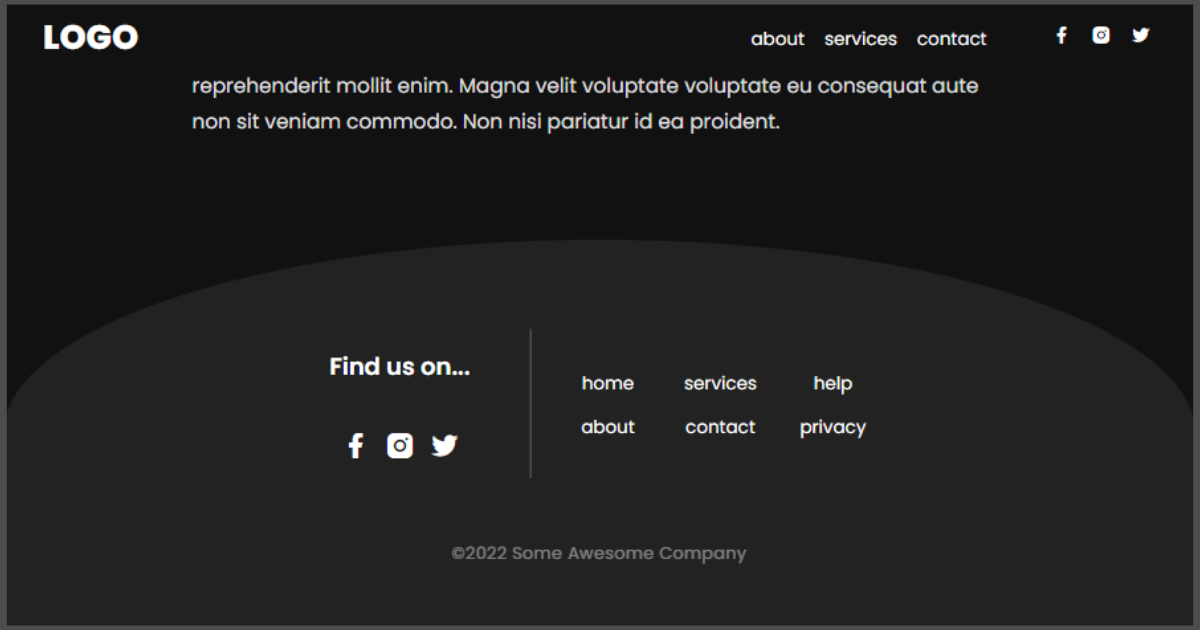
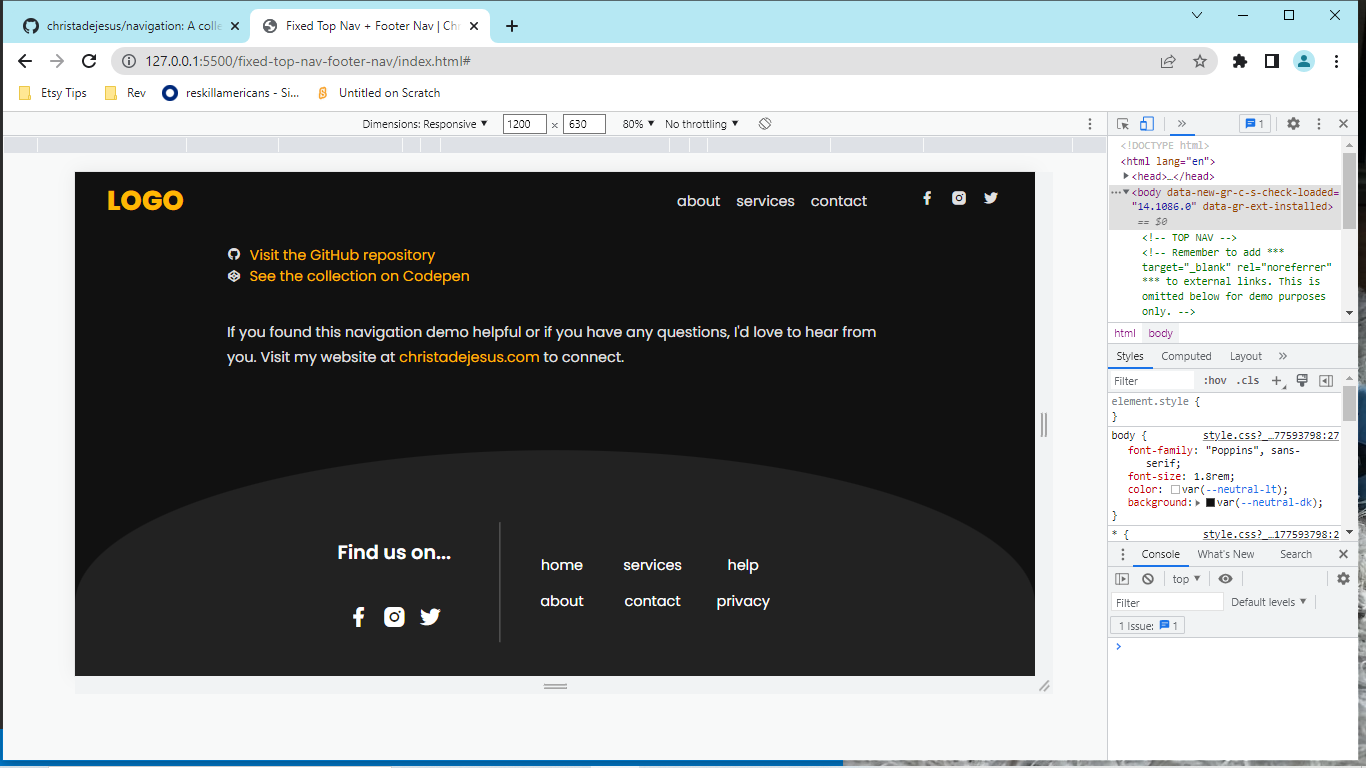
Update main content and social image

diff --git a/fixed-top-nav-footer-nav/index.html b/fixed-top-nav-footer-nav/index.html
@@ -42,16 +42,25 @@
     <!-- END TOP NAV -->
     <main>
         <h1>Fixed Top Nav + Footer Nav</h1>
-        <p>Eiusmod veniam irure reprehenderit elit esse aliqua ipsum eiusmod ad ut reprehenderit sit ex adipisicing. Ea
-            cupidatat Lorem magna officia sit. Esse ipsum quis anim fugiat reprehenderit laboris ipsum commodo occaecat
-            amet reprehenderit mollit enim. Magna velit voluptate voluptate eu consequat aute non sit veniam commodo.
-            Non nisi pariatur id ea proident.</p>
-        <h2>Some Awesome Heading</h2>
-        <p>Eiusmod veniam irure reprehenderit elit esse aliqua ipsum eiusmod ad ut reprehenderit sit ex adipisicing.
-            Eacupidatat Lorem magna officia sit. Esse ipsum quis anim fugiat reprehenderit laboris ipsum commodo
-            occaecat amet reprehenderit mollit enim. Magna velit voluptate voluptate eu consequat aute non sit veniam
-            commodo. Non nisi pariatur id ea proident.</p>
-    </main>
+        <p>This nav pair is built with HTML, CSS, and vanilla JavaScript. Both the top nav and footer nav are fully responsive
+            and feature a hidden top menu on small screens.</p>
+        <p>The footer makes use of the border-radius CSS property to create a quick, simple, and clean design element to create
+            separation from the main content.</p>
+        <h2>More Info</h2>
+        <a href="https://github.com/christadejesus/navigation/tree/main/3-tier-top-nav" class="flex-link" target="_blank"
+            rel="noreferrer"><i class="ri-github-fill"></i>Visit the
+            GitHub repository</a>
+        <a href="https://codepen.io/collection/yrPyag" target="_blank" rel="noreferrer" class="flex-link"><i
+                class="ri-codepen-fill"></i>See
+            the
+            collection on
+            Codepen</a>
+        <p>If you found this navigation demo helpful or if you have any questions, I'd love to hear from you.
+            Visit my
+            website
+            at <a href="https://christadejesus.com" target="_blank" rel="noreferrer">christadejesus.com</a> to
+            connect.</p>
+        </main>
     <footer>
         <div class="main-content">
             <div class="social-container">

diff --git a/fixed-top-nav-footer-nav/style.css b/fixed-top-nav-footer-nav/style.css
@@ -7,22 +7,24 @@
 }
 
 :root {
-    /* COLORS */
+    /* COLOR VARIABLES */
     --neutral-dk: #111;
     --neutral-md: #222;
     --neutral-mdlt: #e0e0e1;
     --neutral-lt: #fff;
     --primary:  #FFB703;
 
-    /* OTHER */
+    /* OTHER VARIABLES */
     --transition: all 300ms ease-in-out;
     --nav-height: 70px;
+
+    /* GLOBALS */
     font-size: 10px;
     line-height: 1.5;
 }
 
 /* MAIN STYLES */
-body, html {
+body {
   font-family: "Poppins", sans-serif;
   font-size: 1.8rem;
   color: var(--neutral-lt);
@@ -45,28 +47,28 @@ h2 {
     font-size: 2.4rem;
 }
 a {
-  color: var(--neutral-dk);
+  color: var(--primary);
   text-decoration: none;
+}
+a:hover {
+  color: inherit;
 }
 ul {
   list-style: none;
 }
-main {
-  padding: 20px 20px 40px 20px;
-  max-width: 900px;
-  margin: 0 auto;
+button {
+  background: transparent;
 }
 /* TOPNAV */
-.btn {
+.menu-btn, .close-btn {
     display: none;
-    background: transparent;
 }
-.btn i {
+.menu-btn i, .close-btn i {
     font-size: 3rem;
-    color: var(--neutral-lt);
+    color: var(--primary);
 }
-.btn i:hover {
-  color: var(--primary);
+.menu-btn i:hover, .close-btn i:hover {
+  color: var(--neutral-mdlt);
 }
 .top-nav {
     position: fixed;
@@ -77,12 +79,6 @@ main {
     height: var(--nav-height);
     padding: 0 40px;
     background: var(--neutral-dk);
-}
-.top-nav a {
-  color: var(--neutral-lt);
-}
-.top-nav a:hover {
-  color: var(--primary);
 }
 .logo{
     text-transform: uppercase;
@@ -100,6 +96,12 @@ main {
     gap: 20px;
     padding-bottom: 3px;
 }
+.link-list a {
+  color: var(--neutral-mdlt);
+}
+.link-list a:hover {
+  color: var(--primary);
+}
 .social-list {
     display: flex;
     gap: 10px;
@@ -108,7 +110,7 @@ main {
     display: flex;
     align-items: center;
     justify-content: center;
-    color: var(--neutral-lt);
+    color: var(--neutral-mdlt);
     border-radius: 5px;
     width: 30px;
     height: 30px;
@@ -122,6 +124,19 @@ main {
     font-size: 2rem;
 }
 
+/* MAIN CONTENT  */
+main {
+  padding: 20px 20px 40px 20px;
+  max-width: 900px;
+  margin: 0 auto;
+}
+.flex-link {
+  display: flex;
+  gap: 1rem;
+}
+.flex-link i {
+  color: var(--neutral-mdlt);
+}
 /* FOOTER */
 footer {
   text-align: center;
